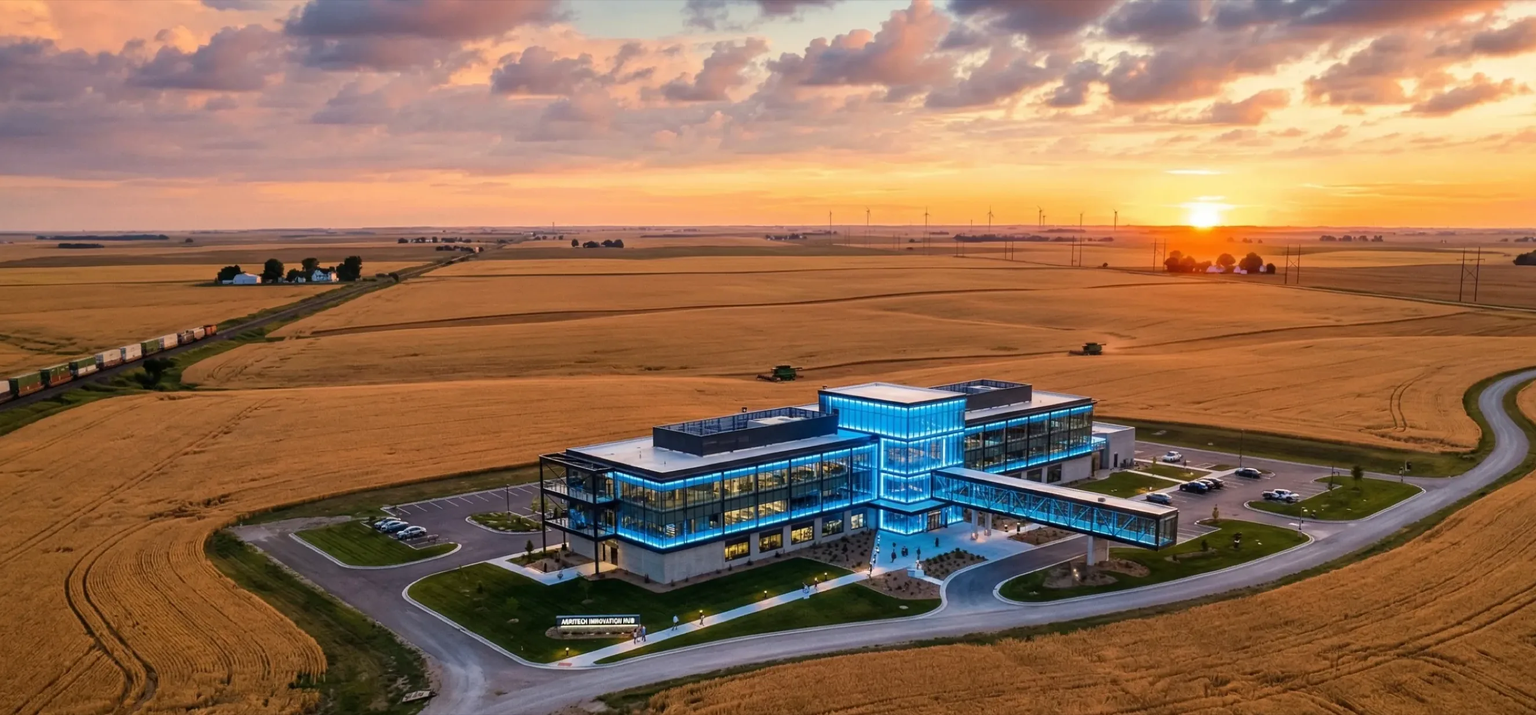
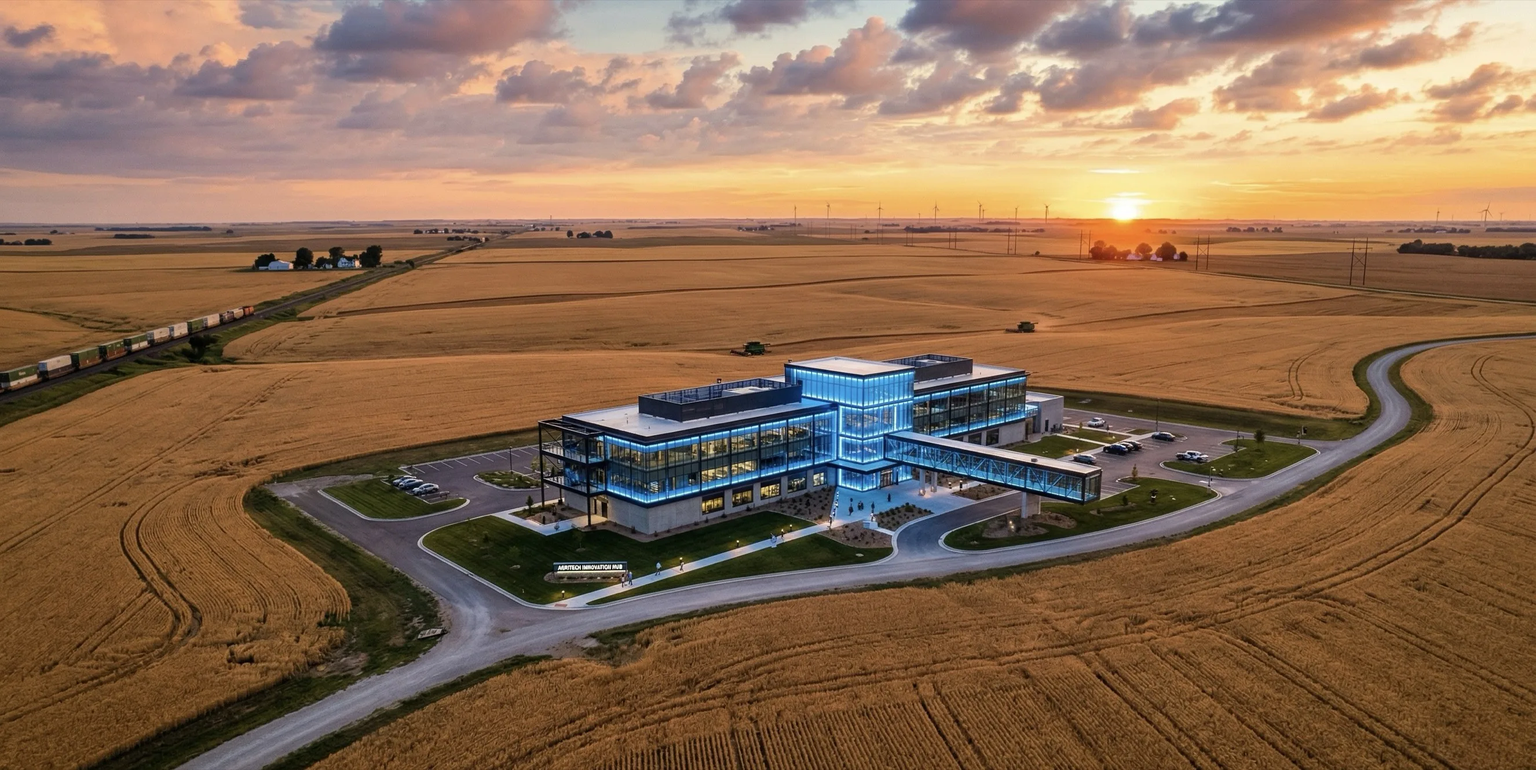
New Kansas image (no watermark), tech stack: add business tools & NotebookLM
- Replace Kansas card image with clean version (no star watermark)
- Tech stack: add Google NotebookLM, QuickBooks, ServiceTitan, Jobber,
  HubSpot, Salesforce, Square, Mailchimp, ActiveCampaign
- Reorder stack: AI/agent tools first, business systems second, then
  automation, web/cloud, mobile, data

diff --git a/src/components/home/tech-partners.tsx b/src/components/home/tech-partners.tsx
@@ -1,16 +1,28 @@
 "use client";
 
 const techPartners = [
-  // AI & Development
+  // AI & Agent Tools
   "OpenAI",
   "Anthropic",
   "Claude Code",
   "Google Gemini",
+  "Google NotebookLM",
   "Cursor",
   "Codex",
-  "Xcode",
-  "Swift",
-  "SwiftUI",
+  // Business Systems We Integrate With
+  "QuickBooks",
+  "ServiceTitan",
+  "Jobber",
+  "HubSpot",
+  "Salesforce",
+  "Square",
+  "Stripe",
+  "Mailchimp",
+  "ActiveCampaign",
+  // Automation & Integration
+  "n8n",
+  "Zapier",
+  "Make",
   // Web & Cloud
   "Next.js",
   "React",
@@ -22,22 +34,17 @@ const techPartners = [
   "Vercel",
   "GitHub",
   "Docker",
-  // Automation & Integration
-  "n8n",
-  "Zapier",
-  "Make",
-  // Design & Productivity
-  "Figma",
-  "Google Workspace",
-  "Notion",
-  // Data & Analytics
+  // Mobile
+  "Xcode",
+  "Swift",
+  "SwiftUI",
+  // Data & Productivity
   "PostgreSQL",
   "Supabase",
   "MongoDB",
-  // Payment & Commerce
-  "Stripe",
-  // Animation & UI
-  "GSAP",
+  "Google Workspace",
+  "Notion",
+  "Figma",
 ];
 
 export function TechPartners() {
